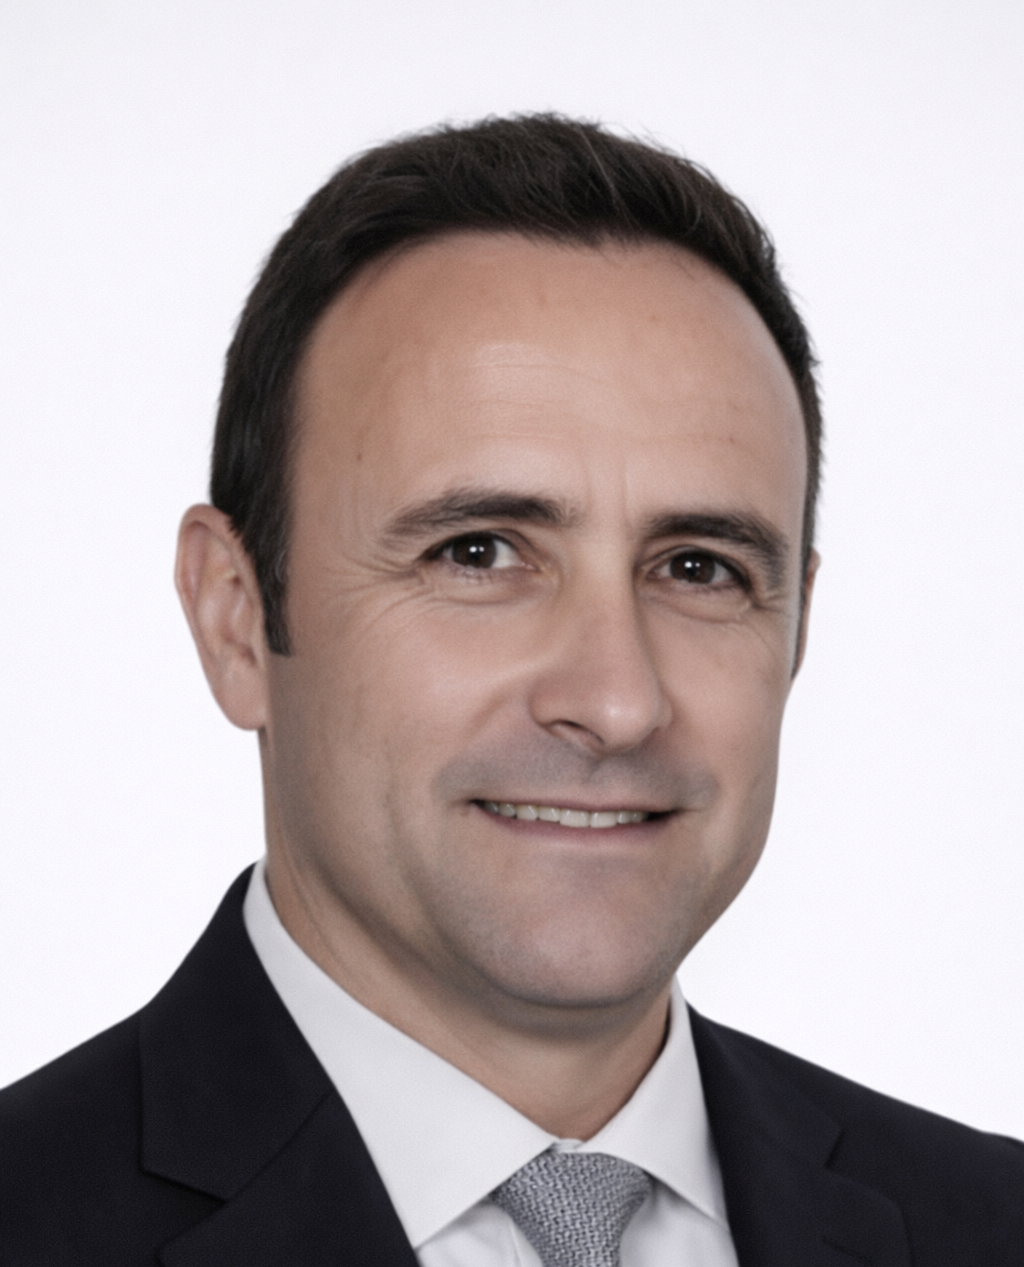
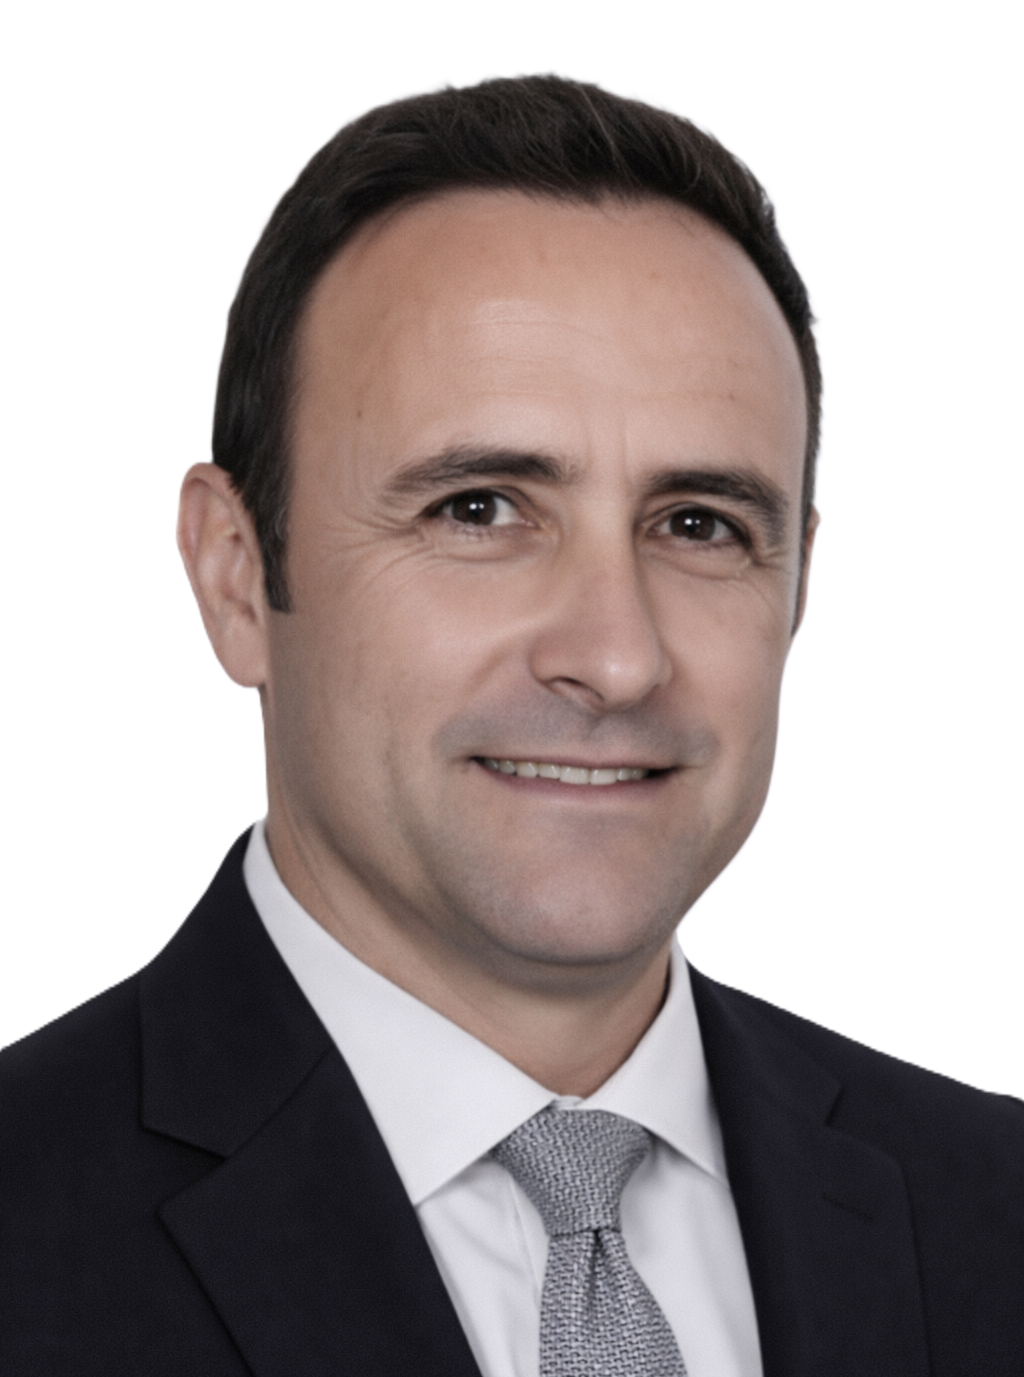
feat: Enhance project and team sections with new images and layout improvements

diff --git a/components/sections/FeaturedProjects.tsx b/components/sections/FeaturedProjects.tsx
@@ -1,9 +1,10 @@
 'use client'
 
 import Link from 'next/link'
+import Image from 'next/image'
 import { Container } from '@/components/ui/Container'
 import { AnimatedSection, StaggerContainer, StaggerItem } from '@/components/ui/AnimatedComponents'
-import { MapPin, Calendar, ArrowRight } from 'lucide-react'
+import { Calendar, ArrowRight } from 'lucide-react'
 import { projects } from '@/data/projects'
 
 export function FeaturedProjects() {
@@ -25,53 +26,61 @@ export function FeaturedProjects() {
         <StaggerContainer className="grid grid-cols-1 lg:grid-cols-3 gap-8 mb-12">
           {projects.map((project) => (
             <StaggerItem key={project.id}>
-              <div className="group relative h-full">
+              <Link href="/projects" className="group relative block h-full">
                 <div className="absolute inset-0 bg-gradient-to-br from-msv-blue/5 to-msv-cyan/5 rounded-3xl transform group-hover:scale-105 transition-transform duration-500" />
                 
-                <div className="relative bg-white rounded-2xl p-8 h-full border border-slate-100 group-hover:border-msv-blue/20 group-hover:shadow-xl transition-all duration-300">
-                  <div className="flex items-start justify-between mb-6">
-                    <div className="w-12 h-12 rounded-xl bg-gradient-to-br from-msv-blue to-msv-cyan flex items-center justify-center">
-                      <MapPin className="w-6 h-6 text-white" />
+                <div className="relative bg-white rounded-2xl h-full border border-slate-100 group-hover:border-msv-blue/20 group-hover:shadow-xl transition-all duration-300 overflow-hidden">
+                  <div className="relative w-full aspect-[16/9] overflow-hidden">
+                    <Image
+                      src={project.images[0]}
+                      alt={`${project.name} project`}
+                      fill
+                      className="object-cover group-hover:scale-105 transition-transform duration-500"
+                    />
+                    <div className="absolute inset-0 bg-gradient-to-t from-slate-900/70 to-transparent" />
+                    <div className="absolute bottom-4 left-4 right-4">
+                      <span className="text-xs font-medium text-white/80 bg-white/20 backdrop-blur-sm px-2.5 py-1 rounded-full">
+                        {project.commodity}
+                      </span>
                     </div>
-                    <span className="text-xs font-medium text-slate-400 bg-slate-50 px-3 py-1 rounded-full">
-                      {project.commodity}
-                    </span>
                   </div>
 
-                  <h3 className="text-xl font-bold text-msv-dark-2 mb-2 group-hover:text-msv-blue transition-colors">
-                    {project.name}
-                  </h3>
-                  
-                  <p className="text-msv-blue font-medium text-sm mb-4">
-                    {project.client}
-                  </p>
+                  <div className="p-6">
+                    <h3 className="text-xl font-bold text-msv-dark-2 mb-2 group-hover:text-msv-blue transition-colors">
+                      {project.name}
+                    </h3>
+                    
+                    <p className="text-msv-blue font-medium text-sm mb-3">
+                      {project.client}
+                    </p>
 
-                  <p className="text-slate-500 text-sm leading-relaxed mb-6">
-                    {project.description}
-                  </p>
+                    <p className="text-slate-500 text-sm leading-relaxed mb-4">
+                      {project.description}
+                    </p>
 
-                  <div className="flex items-center gap-2 text-xs text-slate-400 mb-4">
-                    <Calendar size={14} />
-                    <span>{project.status}</span>
-                  </div>
+                    <div className="flex items-center gap-2 text-xs text-slate-400 mb-4">
+                      <Calendar size={14} />
+                      <span>{project.status}</span>
+                    </div>
 
-                  <div className="flex flex-wrap gap-2">
-                    {project.services.slice(0, 2).map((service) => (
-                      <span 
-                        key={service}
-                        className="text-xs bg-slate-50 text-slate-600 px-2 py-1 rounded-md"
-                      >
-                        {service}
-                      </span>
-                    ))}
-                    {project.services.length > 2 && (
-                      <span className="text-xs text-slate-400">
-                        +{project.services.length - 2} more
-                      </span>
-                    )}
+                    <div className="flex flex-wrap gap-2">
+                      {project.services.slice(0, 2).map((service) => (
+                        <span 
+                          key={service}
+                          className="text-xs bg-slate-50 text-slate-600 px-2 py-1 rounded-md"
+                        >
+                          {service}
+                        </span>
+                      ))}
+                      {project.services.length > 2 && (
+                        <span className="text-xs text-slate-400">
+                          +{project.services.length - 2} more
+                        </span>
+                      )}
+                    </div>
                   </div>
                 </div>
-              </div>
+              </Link>
             </StaggerItem>
           ))}
         </StaggerContainer>

diff --git a/components/sections/ProjectsContent.tsx b/components/sections/ProjectsContent.tsx
@@ -2,6 +2,7 @@
 
 import { useCallback, useEffect, useState } from 'react'
 import Link from 'next/link'
+import Image from 'next/image'
 import useEmblaCarousel from 'embla-carousel-react'
 import Autoplay from 'embla-carousel-autoplay'
 import { Container } from '@/components/ui/Container'
@@ -114,30 +115,40 @@ export function ProjectsContent() {
                       className="flex-[0_0_100%] min-w-0 px-4"
                     >
                       <div className="bg-white rounded-3xl border border-slate-100 overflow-hidden shadow-xl">
-                        <div className="grid grid-cols-1 lg:grid-cols-3">
-                          <div className="p-8 lg:p-12 bg-gradient-to-br from-msv-blue to-msv-cyan text-white">
-                            <div className="flex items-center gap-3 mb-6">
-                              <span className="text-4xl">{country.flag}</span>
-                              <div>
-                                <p className="text-white/70 text-sm font-medium">{project.country}</p>
-                                <p className="text-lg font-bold">{project.commodity}</p>
+                        <div className="grid grid-cols-1 lg:grid-cols-5 lg:min-h-[400px]">
+                          <div className="relative lg:col-span-2 min-h-[280px] overflow-hidden">
+                            <Image
+                              src={project.images.length > 1 ? project.images[1] : project.images[0]}
+                              alt={`${project.name} project`}
+                              fill
+                              className="object-cover"
+                            />
+                            <div className="absolute inset-0 bg-gradient-to-t from-slate-900/90 via-slate-900/40 to-slate-900/20 lg:bg-gradient-to-r lg:from-slate-900/90 lg:via-slate-900/50 lg:to-slate-900/20" />
+                            
+                            <div className="absolute inset-0 p-8 lg:p-10 flex flex-col justify-end text-white">
+                              <div className="flex items-center gap-3 mb-5">
+                                <span className="text-4xl">{country.flag}</span>
+                                <div>
+                                  <p className="text-white/70 text-sm font-medium">{project.country}</p>
+                                  <p className="text-lg font-bold">{project.commodity}</p>
+                                </div>
                               </div>
-                            </div>
-                            
-                            <h3 className="text-3xl font-bold mb-2">
-                              {project.name}
-                            </h3>
-                            <p className="text-white/80 font-medium mb-6">
-                              {project.client}
-                            </p>
-                            
-                            <div className="flex items-center gap-2 text-white/70 text-sm">
-                              <Calendar size={16} />
-                              <span>{project.status}</span>
+                              
+                              <h3 className="text-3xl lg:text-4xl font-bold mb-2 leading-tight">
+                                {project.name}
+                              </h3>
+                              <p className="text-white/80 font-medium mb-4">
+                                {project.client}
+                              </p>
+                              
+                              <div className="flex items-center gap-2 text-white/70 text-sm">
+                                <Calendar size={16} />
+                                <span>{project.status}</span>
+                              </div>
                             </div>
                           </div>
                           
-                          <div className="lg:col-span-2 p-8 lg:p-12">
+                          <div className="lg:col-span-3 p-8 lg:p-12">
                             <p className="text-lg text-slate-600 mb-8 leading-relaxed">
                               {project.description}
                             </p>

diff --git a/data/projects.ts b/data/projects.ts
@@ -8,6 +8,7 @@ export interface Project {
   description: string
   services: string[]
   deliveryModel: string[]
+  images: string[]
 }
 
 export const projects: Project[] = [
@@ -26,6 +27,7 @@ export const projects: Project[] = [
       'Operational Readiness & Support',
     ],
     deliveryModel: ['Advisory', 'EPCM'],
+    images: ['/projects/sambo-survey.png', '/projects/sambo-trench.png'],
   },
   {
     id: 'cavico-laos',
@@ -37,6 +39,7 @@ export const projects: Project[] = [
     description: 'Providing the client with grass roots exploration services (mapping, soils, rock chips and trenching) and drill target generation for gold.',
     services: ['Exploration & Geological Services'],
     deliveryModel: ['Advisory'],
+    images: ['/projects/cavico-pre-start.png', '/projects/cavico-stream-sampling.png'],
   },
   {
     id: 'xuan-loc-tho',
@@ -48,5 +51,6 @@ export const projects: Project[] = [
     description: 'MSV has 3 engineers embedded in the client\'s team to help advance permitting, licensing and project studies (including feasibility study & EIA).',
     services: ['Project Delivery (Owner\'s Team & EPCM)'],
     deliveryModel: ['Embedded Teams'],
+    images: ['/projects/xlt-working-group.png'],
   },
 ]

diff --git a/data/team.ts b/data/team.ts
@@ -16,7 +16,7 @@ export const teamMembers: TeamMember[] = [
     shortBio: 'Process Engineer with over 31 years\' mining experience across multiple jurisdictions and a Southeast Asia focus.',
     bio: 'Process Engineer with over 31 years\' mining experience across multiple jurisdictions. Strong background in executive leadership, engineering, mining operations, and project delivery, with a Southeast Asia focus across coal, nickel, gold, and copper.',
     email: 'Lon@dma-msv.com',
-    image: '/team/LonTaranaki.jpeg',
+    image: '/team/LonTaranaki.png',
   },
   {
     name: 'Thanh Nguyen Van',

diff --git a/TODO.md b/TODO.md
@@ -1,13 +1,8 @@
 Về phía dev & design:
 - Sửa màu text theo theme
 - Thêm ảnh vào projects
-- Giảm kích cỡ Our track record và thêm logo
-- Sửa contact page để chỉ liên lạc thông qua general email, cần có các trường thông tin drop down lẫn điền tay.
-Sau khi hoàn thành thì gửi các service option và pricing để MSV review và lựa chọn.
 Về phía MSV:
 - Làm rõ về phần hero section bên phải muốn sửa
 - Gửi lại mã màu theo theme, chỉ định màu cho text
 - Gửi lại bộ icon về commodities và cờ các nước (hoặc team dev sẽ sử dụng ảnh từ bảng tuần hoàn)
 - Xem lại xem cần bổ sung thêm hình ảnh gì và gửi lại cho dev & design
-- Gửi lại ảnh nền trắng của Mr. LonTaranaki 
-- Gửi lại thông tin godaddy để deploy website
